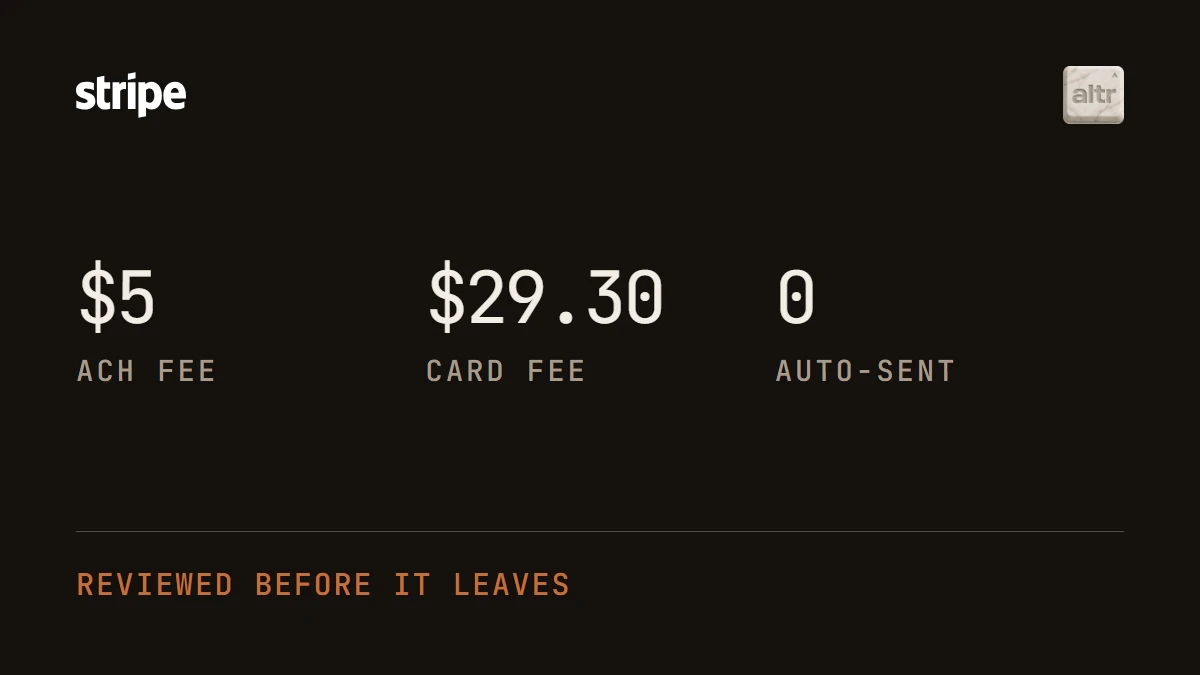
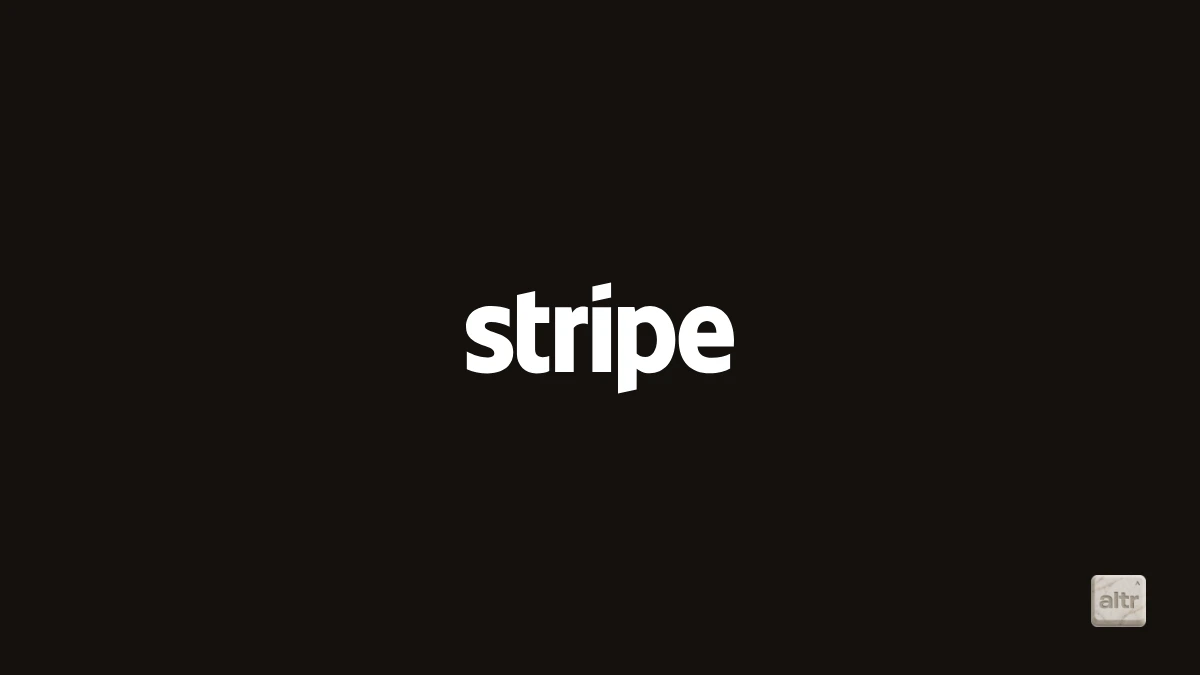
Point the Cloudflare piece at the connector work, and drop the stat cards
The article was a tour of one product. What it should be about is the
service: most of what we build for clients is a connector, the piece that
lets an assistant reach a company's own records, and Cloudflare is why a
two-person agency can hand one over inside a week instead of quoting it
as a month. It now opens on that and stays there - infrastructure
programmable in the same conversation as the code, one account holding
compute, databases, DNS, domains and mail, one deployment serving a
different tool set to each team, sign-in in a browser with no token to
paste, and no permanent operations job at the end of it. The registry
cron and the Durable Object comparison are gone; both were product
detail.

The cards are the two logos now. Numbers on a plate were the wrong
furniture for a case study whose subject is the platform, and "2 workers,
2 databases, 0 servers" read as a spec sheet for something nobody asked
to be sold. The mark sits on the plate with our keycap in the corner, and
the alt text and social image descriptions follow it.

seo_integrity_test.py passes, 18 tests.

diff --git a/impact-cloudflare-workers-architecture.html b/impact-cloudflare-workers-architecture.html
@@ -11,12 +11,12 @@
  gtag('config', 'G-RHG020FK51');
 </script>
 <meta charset="utf-8" />
-<title>Building a CRE Chatbot on Cloudflare Workers | altr</title>
+<title>How We Build AI Connectors on Cloudflare Workers | altr</title>
 <meta name="viewport" content="width=device-width, initial-scale=1" />
-<meta name="description" content="We are building a commercial real estate chat assistant on Cloudflare Workers. The reason we build there is that the infrastructure is programmable in the same conversation as the code." />
+<meta name="description" content="Most of what we build for clients is a connector - the piece that lets an AI assistant reach a company's own records. Here is why a two-person agency can ship one in days." />
 <link rel="canonical" href="https://altrwork.com/impact-cloudflare-workers-architecture.html" />
-<meta property="og:title" content="Building a CRE Chatbot on Cloudflare Workers | altr" />
-<meta property="og:description" content="We are building a commercial real estate chat assistant on Cloudflare Workers. The reason we build there is that the infrastructure is programmable in the same conversation as the code." />
+<meta property="og:title" content="How We Build AI Connectors on Cloudflare Workers | altr" />
+<meta property="og:description" content="Most of what we build for clients is a connector - the piece that lets an AI assistant reach a company's own records. Here is why a two-person agency can ship one in days." />
 <meta property="og:url" content="https://altrwork.com/impact-cloudflare-workers-architecture.html" />
 <meta property="og:type" content="article" />
 <meta property="og:site_name" content="altr" />
@@ -24,10 +24,10 @@
 <meta property="og:image" content="https://altrwork.com/assets/case-cloudflare-architecture.webp" />
 <meta property="og:image:width" content="1200" />
 <meta property="og:image:height" content="630" />
-<meta property="og:image:alt" content="Runs on Cloudflare: two Workers, two D1 databases, zero servers, stateless by design" />
+<meta property="og:image:alt" content="Cloudflare" />
 <meta name="twitter:card" content="summary_large_image" />
-<meta name="twitter:title" content="Building a CRE Chatbot on Cloudflare Workers | altr" />
-<meta name="twitter:description" content="We are building a commercial real estate chat assistant on Cloudflare Workers. The reason we build there is that the infrastructure is programmable in the same conversation as the code." />
+<meta name="twitter:title" content="How We Build AI Connectors on Cloudflare Workers | altr" />
+<meta name="twitter:description" content="Most of what we build for clients is a connector - the piece that lets an AI assistant reach a company's own records. Here is why a two-person agency can ship one in days." />
 <meta name="twitter:image" content="https://altrwork.com/assets/case-cloudflare-architecture.webp" />
 <link rel="icon" type="image/png" sizes="32x32" href="assets/favicon-32.png" />
 <link rel="icon" type="image/png" sizes="192x192" href="assets/favicon-192.png" />
@@ -43,8 +43,8 @@
   "@graph": [
     {
       "@type": "Article",
-      "headline": "A commercial real estate chatbot, built by describing it.",
-      "description": "We are building a commercial real estate chat assistant on Cloudflare Workers. The reason we build there is that the infrastructure is programmable in the same conversation as the code.",
+      "headline": "We build AI connectors for clients. Cloudflare is why it takes days.",
+      "description": "Most of what we build for clients is a connector - the piece that lets an AI assistant reach a company's own records. Here is why a two-person agency can ship one in days.",
       "image": "https://altrwork.com/assets/case-cloudflare-architecture.webp",
       "author": {
         "@type": "Organization",
@@ -148,19 +148,18 @@
       <article class="impact-detail impact-detail-stacked impact-article">
         <picture>
           <source srcset="assets/case-cloudflare-architecture.webp" type="image/webp" />
-          <img class="impact-study-image" src="assets/case-cloudflare-architecture.webp" width="1200" height="675" loading="lazy" alt="Runs on Cloudflare: two Workers, two D1 databases, zero servers, stateless by design" />
+          <img class="impact-study-image" src="assets/case-cloudflare-architecture.webp" width="1200" height="675" loading="lazy" alt="Cloudflare" />
         </picture>
         <div class="impact-study-copy">
           <div class="content-label">Engineering</div>
-          <h1>A commercial real estate chatbot, built by describing it.</h1>
-          <p>We are building a chat assistant for commercial real estate. You ask it who owns a building, what debt is recorded against it, what it is probably worth, and it answers from county records rather than from memory. The whole thing runs on Cloudflare Workers, and the reason we chose to build there has less to do with performance than with how few afternoons it costs us.</p>
-          <p>The pitch for Workers is usually that your code runs in a few hundred cities and there is no server to patch. Both true, and both slightly beside the point for a team our size. The thing that actually changed how fast we move is that the platform is programmable the same way the product is. Cloudflare exposes everything through an API, so creating a worker, provisioning a database, pointing a domain at it, adding a nightly schedule, or reading back what is currently deployed are all things we describe in a sentence and then watch happen. The infrastructure gets edited in the same conversation as the code, which means there is no context switch between writing a feature and giving it somewhere to live.</p>
-          <p>It is also all in one account. Compute, the databases, DNS, the domains themselves and outbound email are native to the same platform, so there is no stitching four vendors together and no afternoon lost to making their credentials agree. When we needed sign-in links, we did not go shopping for a mail provider — we added an email binding. That sounds like a small thing. Multiply it by every decision a young product has to make and it is most of a month.</p>
-          <p>The shape it settled into is two Workers. One serves the product and its screens on its own domain. The other is the records connector that AI clients speak to, and it is the piece a broker actually installs. They reach each other over a service binding rather than a public HTTP call, so an internal request never leaves Cloudflare’s network, never crosses the public internet, and costs essentially nothing in latency. Underneath sit two databases: one holding accounts, billing and documents, the other holding the Florida corporate registry the ownership lookups run against.</p>
-          <p>Two scheduled jobs run on the same Workers. Florida publishes one corporate-filing file per day, so a Sunday run walks the previous eight days in a single pass, with enough margin that a late publish gets caught rather than missed — what it is watching for is an LLC formed to buy a building, which takes weeks to close, so a weekly cadence is comfortably ahead of it. A second job reconciles our billing against Stripe every morning. Neither needed a queue, a scheduler, or a machine left running.</p>
-          <p>The one design decision worth spelling out is that the connector is stateless. There is a common assumption that an AI server needs to hold a session per user, and Cloudflare offers Durable Objects for exactly that kind of stateful coordination. We had one early on and took it out. The connector now builds a fresh server for every request, which sounds wasteful and is the opposite: because nothing is held between requests, the same Worker can expose a completely different set of tools on each route — valuation, investment sales, debt, property management, or all of them — without a class per variant. Opening a route for a new team is one line in a table and a redeploy.</p>
-          <p>It also removes a whole category of problem. There is no long-lived object to leak memory, wedge itself, or need migrating between versions, and every request starts from the same known state. Durable Objects are the right tool when clients genuinely need to coordinate with each other — a shared document, a live room, an exact counter. A broker asking what a building sold for is not that, and pretending otherwise costs you complexity you then have to maintain.</p>
-          <p>The honest summary is that two people are running a product with scheduled ingest from a state registry, its own auth, billing, document generation and an AI connector, and almost none of our week goes into keeping it up. That is the whole reason to build this way. The time it saves does not go into more infrastructure. It goes into the next conversation with the next client.</p>
+          <h1>We build AI connectors for clients. Cloudflare is why it takes days.</h1>
+          <p>Most of what we build for clients is a connector. It is the least glamorous and most useful thing in applied AI: the piece that lets an assistant actually reach a company’s own records. You can ask Claude who owns a building, what a customer ordered last spring, or what is sitting in the contract folder, and it can only answer if something has handed it that data. That something is an MCP server, and we build ours on Cloudflare Workers.</p>
+          <p>That choice matters more for a company our size than it would for a large one. A connector used to be a project: a server to run it on, a deploy pipeline, monitoring, and somebody whose job is to notice when it stops. On Workers it is a file you publish. There is no machine to patch, no capacity to plan for, and no region to choose, and it is running in a few hundred cities the moment it goes live. For a two-person agency that is the difference between quoting a connector as a month of work and handing one over inside a week.</p>
+          <p>The thing that actually changed our pace, though, is that the platform is programmable the same way the product is. Everything Cloudflare offers sits behind an API, so creating a worker, provisioning a database, pointing a domain at it, adding a nightly schedule, or simply reading back what is currently deployed are all things we describe in a sentence and then watch happen. The infrastructure gets edited in the same conversation as the code. There is no context switch between writing a tool and giving it somewhere to live, which sounds like a small thing and is most of the reason a build stays in one afternoon instead of spilling across three.</p>
+          <p>It is also all in one account. Compute, the databases, DNS, the domains themselves and outbound email are native to the same platform, so there is nothing to stitch together and no afternoon lost to making four vendors’ credentials agree. When a connector we were building needed sign-in links, we did not go shopping for a mail provider. We added an email binding. Multiply that by every decision a new build has to make and it is most of a month nobody had to spend.</p>
+          <p>What a client ends up with is one connector that behaves differently depending on who is using it. Our servers hold nothing between requests, which means the same deployment can offer a different set of tools on each route: the valuation team gets valuation tools, capital markets gets recorded debt, property management gets its own. Opening a route for a new team is one line in a table and a redeploy, not a second deployment to maintain. It also means there is no long-lived session to leak, wedge, or migrate — every request starts from the same known state.</p>
+          <p>Their people install it themselves and sign in through a browser, so there is no token to paste into a config file and nothing sensitive sitting in a text file on somebody’s laptop. Because the connection knows who signed in, the assistant can write as well as read: create the contact, log the deal, generate the document, all as that person rather than as an anonymous service.</p>
+          <p>The part that makes this work as a business is that none of it becomes a permanent operations job. We are not running servers for the clients we build for, the cost scales with what actually gets used, and a connector that sits quiet for a week costs close to nothing. That is what lets a very small team say yes to building one, deliver it quickly, hand it over, and put the rest of the week into the next client instead of into keeping the last one online.</p>
           <p class="built-on-line">
             <span>Built on</span>
             <a href="https://www.cloudflare.com" rel="noopener nofollow" target="_blank"><img class="built-on-art built-on-art-cloudflare" src="assets/brand/cloudflare-lockup.png" alt="Cloudflare" /></a>
@@ -172,8 +171,8 @@
     <section class="section">
       <div class="services-cta modern-final-cta">
         <div>
-          <h2>Most software does not need a server any more.</h2>
-          <p>An API, a scheduled job, a database and some screens is a shape that costs less, breaks in fewer ways, and is fast everywhere. We build them and hand them over.</p>
+          <h2>If your team keeps looking things up by hand, that is a connector.</h2>
+          <p>We build the connector, wire it to the records you already have, and hand it to your team with a sign-in rather than a setup guide. Most of them take days.</p>
         </div>
         <a class="button primary" href="start-a-conversation.html">Book a call</a>
       </div>

diff --git a/impact-automated-invoicing-stripe.html b/impact-automated-invoicing-stripe.html
@@ -24,7 +24,7 @@
 <meta property="og:image" content="https://altrwork.com/assets/case-stripe-invoicing.webp" />
 <meta property="og:image:width" content="1200" />
 <meta property="og:image:height" content="630" />
-<meta property="og:image:alt" content="Invoicing on Stripe: $5 ACH fee against $29.30 by card on a $1,000 invoice, and nothing sent unreviewed" />
+<meta property="og:image:alt" content="Stripe" />
 <meta name="twitter:card" content="summary_large_image" />
 <meta name="twitter:title" content="How We Invoice by Talking, on Stripe | altr" />
 <meta name="twitter:description" content="A working session ends, we say who to bill and for how much, and the invoice is drafted in Stripe a second later. Here is how the whole billing side of our sales cycle runs on one sentence." />
@@ -148,7 +148,7 @@
       <article class="impact-detail impact-detail-stacked impact-article">
         <picture>
           <source srcset="assets/case-stripe-invoicing.webp" type="image/webp" />
-          <img class="impact-study-image" src="assets/case-stripe-invoicing.webp" width="1200" height="675" loading="lazy" alt="Invoicing on Stripe: $5 ACH fee against $29.30 by card on a $1,000 invoice, and nothing sent unreviewed" />
+          <img class="impact-study-image" src="assets/case-stripe-invoicing.webp" width="1200" height="675" loading="lazy" alt="Stripe" />
         </picture>
         <div class="impact-study-copy">
           <div class="content-label">How we work</div>

diff --git a/case-studies.html b/case-studies.html
@@ -131,8 +131,8 @@
         <article class="index-cell" data-category="engineering">
           <span class="cell-mark mark-cloudflare-arch" aria-hidden="true"></span>
           <span class="ledger-meta">Engineering</span>
-          <h2><a href="impact-cloudflare-workers-architecture.html">A commercial real estate chatbot, built by describing it</a></h2>
-          <p>Cloudflare Workers, databases, DNS and email in one account, all of it programmable through an API in plain language, under a chat assistant that answers questions from county records.</p>
+          <h2><a href="impact-cloudflare-workers-architecture.html">We build AI connectors. Cloudflare is why it takes days</a></h2>
+          <p>A connector is the piece that lets an assistant reach a company's own records. On Workers there is no server to run, the infrastructure is programmable in plain language, and one deployment serves a different tool set to every team.</p>
           <span class="ledger-date">Sep 21, 2026</span>
         </article>
         <article class="index-cell" data-category="operations">
